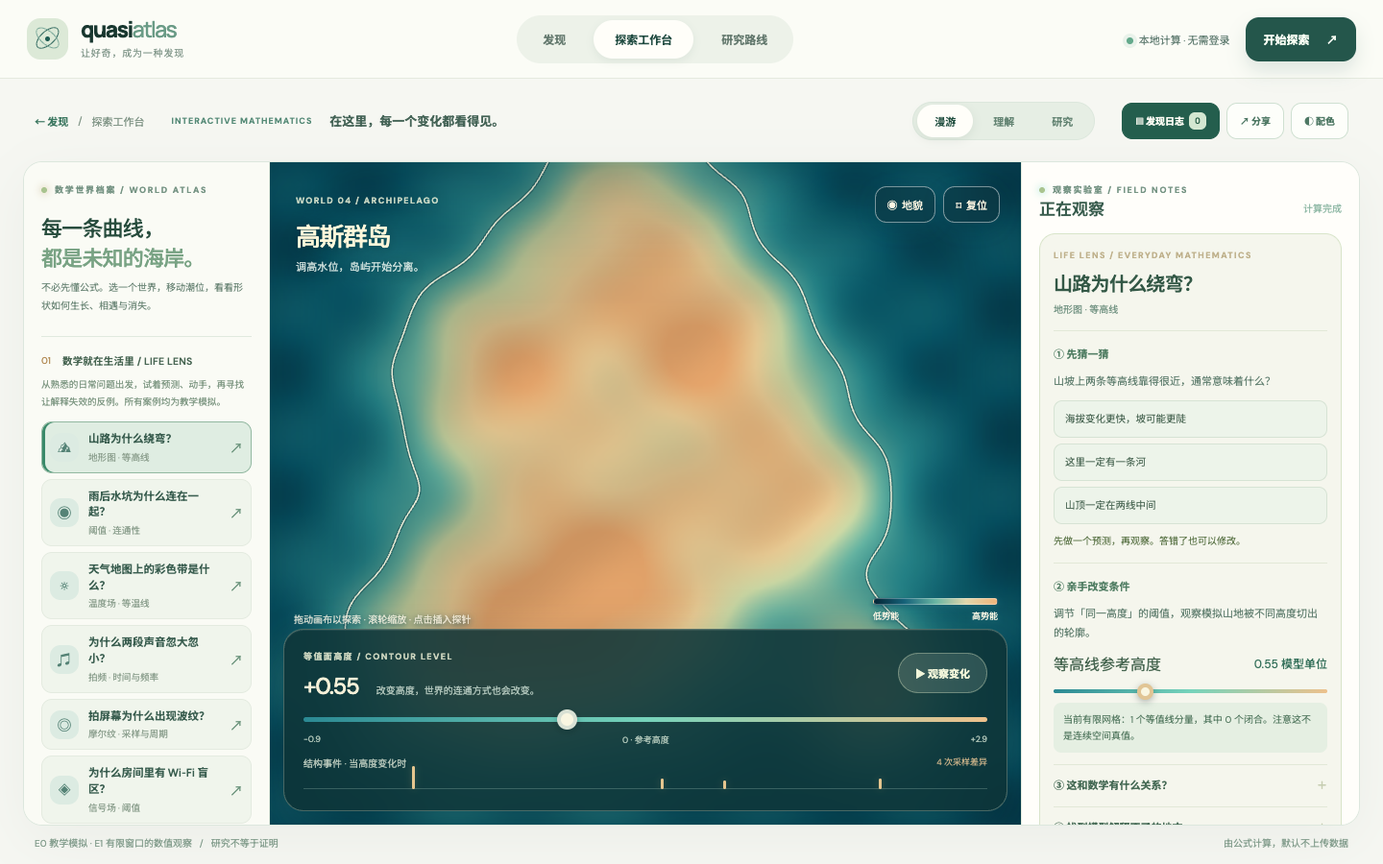
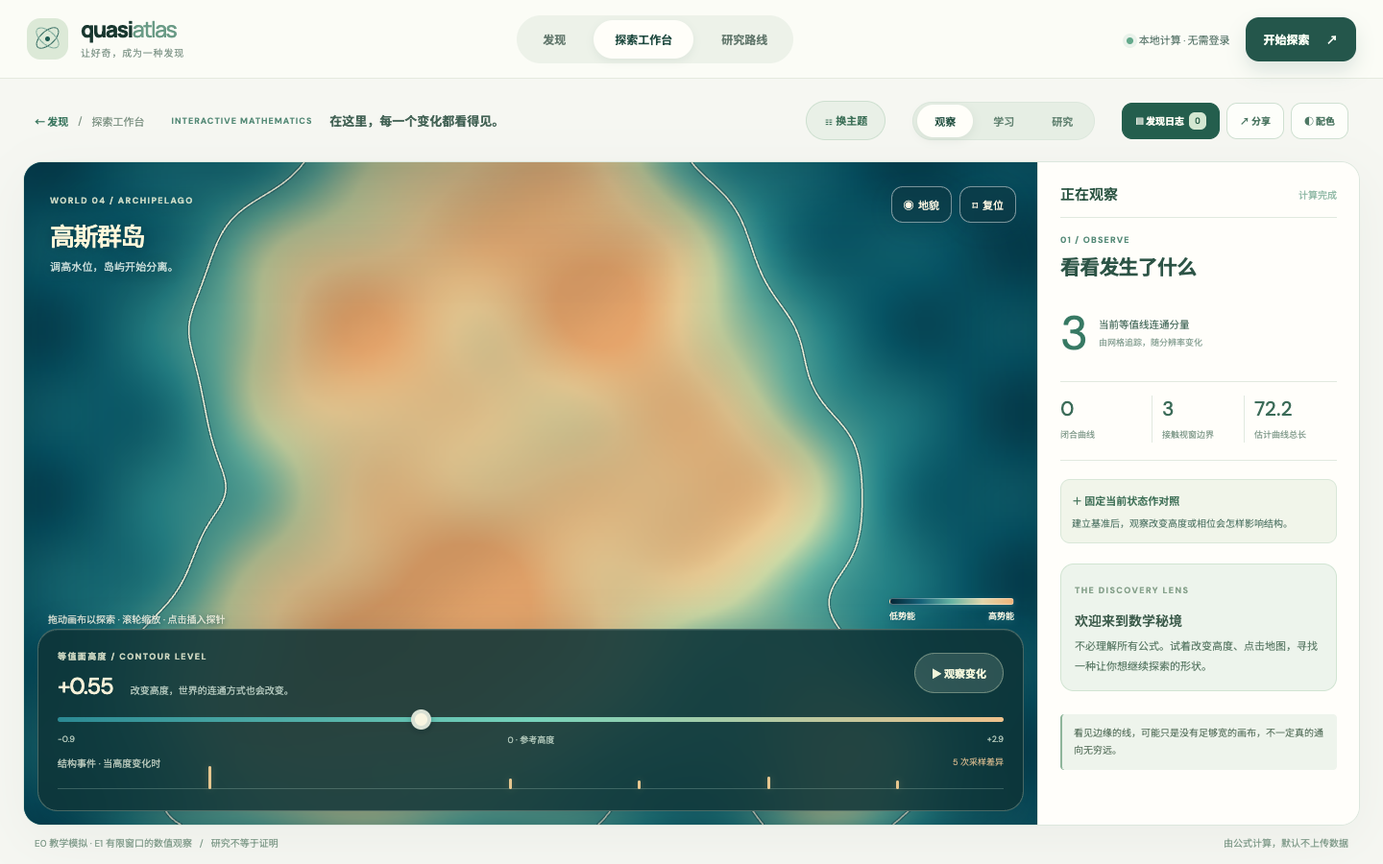
feat(studio): progressive inspector and world drawer; certify Windows G2 replay

diff --git a/src/studio-focus.css b/src/studio-focus.css
@@ -1,0 +1,89 @@
+/* Studio focus redesign: one math canvas, one contextual inspector, one optional world library. */
+.studio-page .layout{grid-template-columns:minmax(0,1fr) 335px!important;min-height:570px}
+.studio-page .right-panel{grid-column:2;min-width:0;background:#fffefa}
+.studio-page .workspace{grid-column:1;min-width:0}
+.studio-page .right-panel .rail-scroll{overflow-y:auto;overscroll-behavior:contain;padding:22px 23px}
+.focus-status{margin:0 0 14px!important;padding:0 0 13px!important;border-bottom:1px solid #e1e9df;display:flex;align-items:center;justify-content:space-between}
+.focus-status h2{font-size:15px!important;color:#2c5543!important;margin:0}
+.focus-pane{display:flex;flex-direction:column;gap:12px}
+.focus-pane[hidden]{display:none!important}
+.focus-pane-header{display:flex;flex-direction:column;gap:2px;padding:3px 0 8px}
+.focus-pane-header .section-kicker{font-size:9px;letter-spacing:1.2px}
+.focus-pane-header h3{color:#2d5446;font-size:21px;letter-spacing:-.8px;margin:4px 0 0}
+.studio-page #focusObserve .big-stat{border:0;margin-top:5px;padding:5px 0 13px}
+.studio-page #focusObserve .stats-row{margin:0 0 7px}
+.studio-page #focusObserve .comparison{margin:0 0 9px}
+.studio-page #focusObserve .mode-insight{margin:0 0 6px}
+.studio-page #focusObserve .scientific-note{margin:6px 0}
+.studio-page #focusLearn .life-lab{margin:0;background:#f5f7ee;display:block}
+.studio-page #focusLearn .life-lab[hidden]{display:none!important}
+.focus-learn-intro{border:1px solid #dce8d5;background:linear-gradient(145deg,#f4f8ed,#e7f1e5);border-radius:17px;padding:35px 24px;color:#436c53;display:flex;flex-direction:column;gap:14px;text-align:center;align-items:center}
+.focus-learn-intro[hidden]{display:none!important}
+.focus-learn-intro>span{font-size:42px;color:#87ab92}.focus-learn-intro strong{font-size:18px;line-height:1.5;color:#315b45}
+.focus-learn-intro p{font-size:11px;line-height:1.8;color:#728e77}.focus-learn-intro button{border:0;background:#27664e;color:white;padding:12px 18px;border-radius:10px;font-weight:700;font-size:12px}
+.studio-page #focusResearch .discovery-card{margin:0 0 10px}
+.focus-more{border:1px solid #d7e5d6;background:#f7faf3;border-radius:13px;padding:0 13px;overflow:visible}
+.focus-more>summary{cursor:pointer;list-style:none;color:#315d4c;font-size:12px;font-weight:750;padding:16px 5px;display:flex;justify-content:space-between}
+.focus-more>summary::-webkit-details-marker{display:none}
+.focus-more>summary:after{content:'＋';font-size:15px;color:#7d9a82}
+.focus-more[open]>summary:after{content:'−'}
+.focus-more[open]>summary{border-bottom:1px solid #dfebdc;margin-bottom:15px}
+.focus-more .param{margin:12px 0}.focus-more .button-grid{padding:0 0 17px}
+.studio-page #focusResearch .formula{margin-top:6px}
+.studio-page #focusResearch .footer-note{font-size:10px;line-height:1.6}
+.studio-page #focusResearch .scientific-note{display:block}
+.studio-page .studio-bar .choose-world{margin-left:auto;white-space:nowrap;border-radius:24px;padding:11px 18px;background:#e9f0e7;color:#3f725a;font-size:11px;border:1px solid #cddfcf}
+.studio-page .studio-bar .choose-world:hover{background:#dcebdc}
+.studio-page .studio-bar .mode-switch{flex-shrink:0}
+.studio-page .studio-headline{margin-right:0}
+.world-drawer{position:fixed;inset:0 auto 0 0;width:min(375px,calc(100vw - 23px));max-width:none;max-height:100dvh;height:100dvh;display:none;border:0;border-radius:0 22px 22px 0;margin:0;padding:0;background:#fbfcf6;box-shadow:15px 0 70px rgba(15,56,44,.23);color:#315d4d}
+.world-drawer[open]{display:flex;flex-direction:column}
+.world-drawer::backdrop{background:rgba(10,35,31,.53);backdrop-filter:blur(4px)}
+.world-drawer-head{display:flex;justify-content:space-between;padding:26px 23px 20px;border-bottom:1px solid #e0e9db;gap:15px}
+.world-drawer-head h2{font-size:24px;letter-spacing:-.8px;margin:8px 0 7px}
+.world-drawer-head p{font-size:11px;color:#819582;line-height:1.7;margin:0}
+.world-drawer-close{flex-shrink:0;width:35px;height:35px;border:1px solid #cadcca;border-radius:50%;background:#f2f6ee;color:#517e63;font-size:21px}
+.world-drawer>.left-panel{position:relative!important;width:100%!important;flex:1;min-height:0;display:block!important;border:0!important;box-shadow:none!important;overflow:auto!important}
+.world-drawer>.left-panel .rail-scroll{height:auto!important;max-height:none!important;padding:21px 21px 38px!important;overflow:visible!important}
+.world-drawer>.left-panel h1{font-size:20px!important}
+.world-drawer>.left-panel .intro{font-size:11px}
+.world-drawer>.left-panel .life-lessons{grid-template-columns:1fr 1fr}
+.world-drawer>.left-panel .section-heading{padding:14px 0 9px}
+.world-drawer>.left-panel .rail-foot{margin-bottom:12px}
+body[data-page=studio] .site-foot{display:none}
+@media(max-width:1200px){
+ .studio-page .layout{grid-template-columns:minmax(0,1fr) 315px!important}
+ .studio-page .studio-bar{gap:10px}.studio-page .studio-headline strong{display:none}
+}
+@media(max-width:1020px){
+ .studio-page .layout{display:flex!important;flex-direction:column!important;height:auto!important;min-height:0!important}
+ .studio-page .workspace{width:100%;height:560px;min-height:560px;order:0}
+ .studio-page .right-panel{width:100%;order:1;min-height:0}
+ .studio-page .right-panel .rail-scroll{overflow:visible!important;max-height:none;padding:20px 22px}
+ .studio-page .studio-bar .choose-world{margin-left:auto}
+ .studio-page .studio-bar .mode-switch{display:flex}
+ .studio-page .studio-bar .studio-tools{display:flex!important}
+ .world-drawer>.left-panel .rail-scroll{overflow:visible!important}
+}
+@media(max-width:700px){
+ .studio-page .studio-bar{height:53px;gap:5px;padding:0 0 7px}
+ .studio-page .studio-bar .choose-world{font-size:10px;padding:9px 9px;margin-left:0}
+ .studio-page .studio-bar .mode-switch{padding:2px;gap:0}
+ .studio-page .studio-bar .mode{font-size:10px;padding:8px 10px}
+ .studio-page .studio-tools{margin-left:auto!important}
+ .studio-page .studio-tool.notebook-open{font-size:0!important;padding:8px 9px!important;white-space:nowrap}
+ .studio-page .studio-tool.notebook-open:before{content:'▤ 笔记';font-size:10px}
+ .studio-page .studio-tool.notebook-open span{font-size:9px!important}
+ .studio-page .workspace{height:510px;min-height:510px}
+ .studio-page .right-panel .rail-scroll{padding:20px 17px}
+ .focus-pane-header h3{font-size:22px}
+ .world-drawer{width:min(355px,96vw)}
+ .world-drawer-head{padding:21px 19px 16px}
+ .world-drawer>.left-panel .rail-scroll{padding:18px 17px 35px!important}
+}
+/* Override the former full-width 3-column mode switch on narrow screens. */
+.studio-page .studio-bar .mode-switch{width:auto!important;min-width:0!important;max-width:none!important;flex:0 0 auto!important}
+.studio-page .studio-bar .mode{min-width:0!important;width:auto!important;flex:0 0 auto!important}
+@media(max-width:700px){.studio-page .studio-bar .mode-switch{flex:0 1 auto!important}.studio-page .studio-bar .mode{padding:8px 9px!important}.studio-page .studio-bar .choose-world{flex:0 0 auto!important}}
+/* Earlier Notebook media rule hides every .studio-tool except the Notebook; restore the world picker. */
+.studio-page .studio-bar .choose-world{display:inline-flex!important;align-items:center;justify-content:center}

diff --git a/src/studio-focus.js b/src/studio-focus.js
@@ -1,0 +1,72 @@
+// Studio IA v3: a scene-first workspace with progressive disclosure.
+// Reparents existing working DOM controls rather than duplicating event listeners.
+// Each original ID is preserved for mathematical, G1 learning and G2 Notebook contracts.
+export function setupStudioFocus(){
+ const $=s=>document.querySelector(s),right=$('.studio-page .right-panel .rail-scroll'),left=$('.studio-page .left-panel');
+ const layout=$('.studio-page .layout'),bar=$('.studio-bar');
+ if(!right||!left||!layout||!bar)throw new Error('STUDIO_STRUCTURE_MISSING');
+ const pane=(id,label,subtext)=>{const el=document.createElement('section');el.className='focus-pane';el.id=id;el.setAttribute('aria-label',label);
+  const heading=document.createElement('header');heading.className='focus-pane-header';
+  const tag=document.createElement('span');tag.className='section-kicker';tag.textContent=subtext;
+  const title=document.createElement('h3');title.textContent=label;heading.append(tag,title);el.append(heading);return el;};
+ const observe=pane('focusObserve','看看发生了什么','01 / OBSERVE');
+ const learn=pane('focusLearn','自己动手理解','02 / LEARN');
+ const research=pane('focusResearch','检验一个发现','03 / RESEARCH · E1');
+ const header=right.querySelector('.section-overline');header?.remove();
+ const persistent=right.querySelector('.right-title');persistent?.classList.add('focus-status');
+ const life=right.querySelector('#lifeLab');
+ const fallback=document.createElement('div');fallback.className='focus-learn-intro';fallback.id='focusLearnIntro';
+ fallback.innerHTML='<span aria-hidden="true">✳</span><strong>从一个熟悉的生活问题开始</strong><p>选择主题，然后试着预测、改变条件、寻找反例。</p><button type="button" id="focusChooseLesson">选择生活数学主题 ↗</button>';
+ learn.append(fallback,life);
+ for(const selector of ['.big-stat','.stats-row','.comparison','.mode-insight','.scientific-note']){
+  const item=right.querySelector(selector);if(item)observe.append(item);
+ }
+ const discovery=right.querySelector('.discovery-card');if(discovery)research.append(discovery);
+ const collapsible=(title,selectors,open=false)=>{
+  const details=document.createElement('details');details.className='focus-more';details.open=open;
+  const summary=document.createElement('summary');summary.textContent=title;details.append(summary);
+  for(const selector of selectors){for(const item of [...right.querySelectorAll(selector)])details.append(item);}
+  return details;
+ };
+ research.append(collapsible('调整模型 / 相位 / 网格精度',['.param'],false));
+ research.append(collapsible('保存曲线与数学数据',['.button-grid'],false));
+ const formula=right.querySelector('.formula');if(formula)research.append(formula);
+ const footer=right.querySelector('.footer-note');if(footer)research.append(footer);
+ [...right.querySelectorAll('.section-heading')].forEach(x=>x.remove());
+ right.append(observe,learn,research);
+ // The existing lesson is hidden until one is chosen; keep teaching text in one dedicated pane.
+ function syncLesson(){fallback.hidden=!life.hidden;}
+ const drawer=document.createElement('dialog');drawer.className='world-drawer';drawer.id='worldDrawer';drawer.setAttribute('aria-labelledby','worldDrawerHeading');
+ drawer.innerHTML='<div class="world-drawer-head"><div><span class="section-kicker">YOUR MATHEMATICAL WORLDS</span><h2 id="worldDrawerHeading">探索哪些世界？</h2><p>从生活切入，或者自由选择数学场景。</p></div><button type="button" class="world-drawer-close" id="closeWorldDrawer" aria-label="关闭选择主题">×</button></div>';
+ drawer.append(left);layout.after(drawer);
+ const open=()=>{drawer.showModal();$('#closeWorldDrawer').focus();};
+ const close=()=>{if(drawer.open)drawer.close();};
+ $('#closeWorldDrawer').addEventListener('click',close);
+ drawer.addEventListener('click',e=>{if(e.target===drawer)close();});
+ $('#focusChooseLesson').addEventListener('click',open);
+ // Existing click handlers still run on moved elements; this layer only changes navigation affordances.
+ drawer.addEventListener('click',e=>{
+  if(e.target.closest('.life-tile')){close();$('.mode[data-mode="learn"]')?.click();syncLesson();}
+  else if(e.target.closest('.preset')){close();$('.mode[data-mode="wander"]')?.click();}
+  else if(e.target.closest('#tryChallenge')){close();$('.mode[data-mode="wander"]')?.click();}
+ });
+ const choose=document.createElement('button');choose.type='button';choose.className='studio-tool choose-world';choose.id='openWorldDrawer';
+ choose.textContent='☷ 换主题';choose.setAttribute('aria-haspopup','dialog');choose.setAttribute('aria-controls','worldDrawer');
+ bar.insertBefore(choose,bar.querySelector('.mode-switch'));
+ choose.addEventListener('click',open);
+ const modes={wander:observe,learn,research};
+ const buttons=[...document.querySelectorAll('.studio-bar .mode[data-mode]')];
+ const titles={wander:'观察',learn:'学习',research:'研究'};
+ buttons.forEach(b=>{b.textContent=titles[b.dataset.mode]||b.textContent;
+  b.addEventListener('click',()=>setPane(b.dataset.mode));
+ });
+ function setPane(mode){
+  const target=modes[mode]||observe;
+  for(const element of Object.values(modes))element.hidden=element!==target;
+  right.scrollTop=0;syncLesson();
+  bar.dataset.focusMode=mode;document.body.dataset.focusMode=mode;
+  const aria=target.querySelector('h3');if(aria)right.setAttribute('aria-label',aria.textContent);
+ }
+ setPane($('.studio-bar .mode.active')?.dataset.mode||'wander');
+ return {setPane,openWorldDrawer:open,closeWorldDrawer:close,syncLesson};
+}

diff --git a/src/shell.js b/src/shell.js
@@ -3,7 +3,7 @@ import {LIFE_LESSONS} from './life-content.js';
 const MILESTONES=[
  {id:'G0',state:'done',badge:'基础已实现',title:'可信的数学地基',summary:'定义模型，保留数值边界，让每次计算有来源。',details:['12 组解析几何基准与数学测试','有限域模型、参数单位与 SHA-256 实验哈希','E0 教学 / E1 数值观察的明确区分'],foot:'完成的是工程基础，不代表数学证明。'},
  {id:'G1',state:'progress',badge:'体验版已上线 · 待教学实测',title:'从生活走进数学',summary:'从熟悉场景出发，先猜，再操作，最后理解模型的局限。',details:['6 个完整的生活互动入口','预测、解释、找反例、学习 JSON','仍需真实数据溯源、教师审核和用户理解评估'],foot:'当前全部生活素材采用合成教学模型。'},
- {id:'G2',state:'progress',badge:'G2 Beta · 跨设备验收中',title:'发现日志与复现实验',summary:'保存问题、预测与结果，比较快照，在本机重新计算并导出完整实验包。',details:['Notebook 1.0、不可变快照与 stale 提醒','参数、E1 观测及来源哈希，JSON/CSV/SVG 和文件导入','同一版本的 headless CLI / 工作线程复算与差异分类'],foot:'当前支持经审核的二维标量场；独立设备对照与跨引擎/跨版本迁移仍需独立验收。'},
+ {id:'G2',state:'progress',badge:'G2 Beta · 三平台复算通过',title:'发现日志与复现实验',summary:'保存问题、预测与结果，比较快照，在本机重新计算并导出完整实验包。',details:['Notebook 1.0、不可变快照与 stale 提醒','参数、E1 观测及来源哈希，JSON/CSV/SVG 和文件导入','同一版本的 headless CLI / 工作线程复算与差异分类'],foot:'Mac / Windows / Linux 同引擎固定样例复算通过；独立数学算法对照、跨引擎版本迁移尚未通过科研验收。'},
  {id:'G3',state:'planned',badge:'规划中',title:'深入拓扑结构',summary:'真正研究连通性、洞、分支事件，不只是在屏幕上追线。',details:['H0/H1、持久图及连通结构','临界事件身份追踪、退化与边界处理','用 TTK / GUDHI 做独立算法对照'],foot:'当前候选事件是启发式计算，非持久同调结果。'},
  {id:'G4',state:'planned',badge:'规划中',title:'可认证的数值实验',summary:'限定函数类别，严格区分已认证、无法判断与不满足条件。',details:['区间运算与数值误差包络','驻点存在/唯一/排除的机器可审证书','UNKNOWN / TIMEOUT 不准被误报为通过'],foot:'没有 E3 认证或 E4 数学证明能力。'},
  {id:'G5',state:'planned',badge:'规划中',title:'准周期研究专题',summary:'在具体数学假设下研究长程等值线与参数变化。',details:['准周期场频率矩阵与相位控制','论文复现与窗口扩张实验','参数扫描与版本化研究数据'],foot:'有限窗口边界穿越不证明无限域轨迹。'},
@@ -62,7 +62,7 @@ export function setupAppShell({initialSearch,life,activateResearch,showExperimen
     if(next==='studio'){requestAnimationFrame(()=>{window.dispatchEvent(new Event('resize'));});}
   }
   $$('[data-screen]').forEach(b=>b.addEventListener('click',()=>navigate(b.dataset.screen)));
-  $$('[data-launch]').forEach(b=>b.addEventListener('click',()=>{navigate('studio');life.show(b.dataset.launch);}));
+  $$('[data-launch]').forEach(b=>b.addEventListener('click',()=>{navigate('studio');life.show(b.dataset.launch);document.querySelector('.mode[data-mode="learn"]')?.click();}));
   $$('[data-launch-mode]').forEach(b=>b.addEventListener('click',()=>{
     const mode=b.dataset.launchMode;
     navigate('studio');

diff --git a/src/main.js b/src/main.js
@@ -1,6 +1,8 @@
 import './style.css';
 import './ui-v2.css';
 import './notebook.css';
+import './studio-focus.css';
+import {setupStudioFocus} from './studio-focus.js';
 import {setupAppShell} from './shell.js';
 import {PRESETS,getPreset,evaluateField} from './math/fields.js';
 import {createModel,createExperiment} from './math/contract.js';
@@ -302,3 +304,5 @@ window.__notebook=setupNotebook({
  },
  download:downloadBlob,showMessage:toast
 });
+
+window.__studioFocus=setupStudioFocus();

diff --git a/docs/G2_CROSS_RUNTIME_QUALIFICATION.md b/docs/G2_CROSS_RUNTIME_QUALIFICATION.md
@@ -1,6 +1,6 @@
 # G2 · Cross-runtime Replay Qualification
 
-Version 0.5.0-beta.2 · 2026-10-24. **This document separates demonstrated engineering compatibility from still-unverified physical Windows acceptance.**
+Version 0.5.0-beta.2 · 2026-10-24. **This document records successful Mac–Windows–Linux engineering replay; independently implemented mathematical verification remains outstanding.**
 
 ## What is new
 
@@ -57,7 +57,7 @@ The script returns MATCH only for two distinct platform/architecture labels with
 
 ## Mac and Vercel Linux
 
-Vercel builds the GitHub commit on Linux, runs the scientific gate (at least 67 tests) and repeats the **identical** fixtures/g2/replay-canary.json. Build logs include one concise G2_CANARY_RECEIPT record containing source/lock and the computed results. Compare this to the Mac receipt using scripts/compare-canary-receipts.mjs. This is two distinct execution environments but does not replace a Windows device acceptance.
+Vercel builds the GitHub commit on Linux, runs the scientific gate (at least 67 tests) and repeats the **identical** fixtures/g2/replay-canary.json. Build logs include one concise G2_CANARY_RECEIPT record containing source/lock and the computed results. Compare this to the Mac receipt using scripts/compare-canary-receipts.mjs. This is one cross-runtime pairing; Windows was separately tested through Computer MCP as documented below.
 
 ## Verified cross-runtime result — 2026-10-24
 
@@ -72,7 +72,7 @@ Vercel builds the GitHub commit on Linux, runs the scientific gate (at least 67 
 - Vercel build: `SCIENTIFIC_GATE_PASS 67/67 across 7 files`, plus the same pinned three-case canary.
 - Production browser: Notebook 1.1 export has matching math and lockfile fingerprints, Worker MATCH, zero JavaScript errors; HTTPS custom domain verified.
 
-**Remaining G2 physical-device gate:** An authorized Windows computer is not currently online in OWL LAB or Remote Desktop Commander, so a Windows receipt has NOT been produced. These two environments establish platform-to-platform numerical reproducibility, **not** external mathematical certification, cryptographically attested computer identity, or a Windows test.
+**Windows physical-device gate: PASS** (2026-10-24). A live Windows 10 x64 machine connected through Computer MCP replayed the identical three-case fixture with Node 24. The actual Windows receipt was compared against both the Mac and Vercel Linux receipts; all three topology counts and all three contour lengths matched exactly (length deltas 0). The initial Windows clone caused a deliberate SHA mismatch because global Git core.autocrlf converted source bytes to CRLF; preserving LF during checkout fixed this. Repository .gitattributes now pins audited text checkout to LF. Full procedure and evidence: [G2_WINDOWS_ACCEPTANCE.md](G2_WINDOWS_ACCEPTANCE.md). The three observed environments establish same-engine platform reproducibility, **not** independent mathematical certification, cryptographically attested computer identity, or a proof.
 
 ## Failure codes
 
@@ -85,7 +85,7 @@ Vercel builds the GitHub commit on Linux, runs the scientific gate (at least 67 
 
 ## Evidence status and remaining limitations
 
-Mac local results and Vercel Linux results are measured separately. They must be compared using the same pinned fixture before reporting G2 cross-runtime engineering qualification. The user's Windows device is **not currently connected to OWL LAB**; no Windows test can be claimed until that device is online and authorized.
+Mac, Windows via Computer MCP, and Vercel Linux results were independently computed and compared using the same pinned fixture on 2026-10-24; all three cases MATCH with length delta 0. Reproduction results are engineering observations only, not numerical certification.
 
 The test receipts do not establish code signing, external numerical oracle equivalence, independent GUDHI/TTK verification, exact GPU/CPU visual identity, formal numerical certification or mathematical proof. Higher evidence tiers remain planned for G3/G4.
 

diff --git a/docs/STUDIO_FOCUS_INFORMATION_ARCHITECTURE.md b/docs/STUDIO_FOCUS_INFORMATION_ARCHITECTURE.md
@@ -1,0 +1,35 @@
+# Quasi Atlas — Studio Focus UI / Information Architecture (2026-10-24)
+
+## Why the previous workspace was difficult
+
+Previously, the left column simultaneously contained six Life Lens lessons, multiple preset worlds and a challenge. The right column simultaneously showed experimental data, hypotheses, numerical research actions, phase/scale/resolution controls, multiple export formats, formulas and explanations. Users were forced to parse three competing columns before taking a first action.
+
+## New structure, fully implemented
+
+Desktop: **one immersive mathematical canvas + one contextual inspector**. The third persistent column was removed. A compact "☷ 换主题" button opens a native modal dialog listing the six Life Lens lessons, preset fields and challenges; the drawer closes after selection or Escape.
+
+Top of workspace: three explicit modes (original state.mode remains unchanged):
+- **观察** (wander): live contour total, components, boundary and curve length, before/after baseline, brief epistemic caveat
+- **学习** (learn): only the selected Life Lens lesson, with predict / adjust / explanation / counterexample / recording steps. Without a selected lesson, one invitation button opens the world drawer
+- **研究** (research): candidate critical points and multi-grid verification. Detailed scale/phase/resolution changes and PNG/JSON/SVG exports live behind separate expandable sections. Formula and model limitations remain available
+
+Notebook is a distinct and prominent G2 dialog reached with "▤ 发现日志", not nested within the inspector. All existing control IDs and math engine bindings are preserved, including the one-dimensional beat display, world pin, sliders, original G0 export schema, G1 learning JSON, and G2 pinned Notebook 1.1.
+
+Mobile 390px: canvas first, inspector second; theme selection through modal drawer instead of squeezed columns. The browser audit validates no horizontal overflow, topic switching, inspector mode selection, Escape behavior and research-details disclosure.
+
+No user accounts, cloud data upload or artificial scientific certification introduced. The interface does not remove research functions; it changes their discovery order.
+
+## Navigation
+
+Home topic card -> Studio and Learning tab automatically; choose a different lesson from drawer -> Learning tab; choose pure mathematical preset -> Observe tab; enter research from a lesson -> Research tab. Desktop and mobile share identical mode semantics and core controls.
+
+## QA
+
+- scripts/studio-focus-smoke.mjs: desktop, keyboard drawer, tabs, disclosures, mobile responsiveness, JavaScript error guard
+- scripts/life-smoke.mjs: six teaching lessons, including 1D beats and JSON export
+- scripts/smoke.mjs: G0 candidate critical points, grid checks, E1 export; opens research disclosure before export
+- scripts/g2-smoke.mjs: immutable Notebook, replay, tamper rejection, persistence and migration
+- scripts/ui-smoke.mjs: home, roadmap, studio, mobile overflow
+- npm run gate: 67/67 math/contract/replay tests with pinned fixed canary
+
+Remaining independent mathematical algorithm verification is a separate G3 scientific obligation, not represented by this UI redesign.

diff --git a/docs/G2_WINDOWS_ACCEPTANCE.md b/docs/G2_WINDOWS_ACCEPTANCE.md
@@ -1,0 +1,40 @@
+# G2 Windows Physical Reproduction — Acceptance (2026-10-24)
+
+## Verified result
+
+PASS — the connected Computer MCP Windows 10 x64 (10.0.19045), Node.js 24.21.0, Git 2.56.0.windows.2 checked out private Quasi Atlas commit 6d90d9d4af8f311498d8fc842b4e24fc013e1b06.
+
+The headless CLI and the checked-in three-case fixture fixtures/g2/replay-canary.json returned MATCH on Windows. Genuine runtime receipts compared using the repository comparator yielded:
+- Mac darwin-arm64 ↔ Windows win32-x64: MATCH
+- Vercel Linux-x64 ↔ Windows win32-x64: MATCH
+
+All three finite-grid experiments agree for component/closed/boundary counts and approximate contour length (length differences [0,0,0]).
+- Notebook SHA256: sha256:e17ca4fd35323c8b0ea42b25db261f1f8023a068d0bf3da6d81aae4dfd584c49
+- Math-source SHA256: sha256:3393c7753462b46ba042704f88e0a67d8c45eabd53b34f1070dcf60f42bc0
+- npm lockfile SHA256: sha256:66fd2f12727bb16df9cc30aa22c28618313e44826fdba397c49637c8c751b1a4
+- Samples: archipelago (3 components, length 57.938295309947094), saddle (2, length 55.788478281279836), quasi (72, length 488.2283968173891).
+
+This is cross-OS intra-engine reproducibility, not a separately implemented numerical solver, numerical certification or mathematical proof.
+
+## Diagnosed a real Windows-specific problem
+
+Initial Windows clone had Git core.autocrlf=true, transforming audited JavaScript and package-lock.json bytes into CRLF. Strict provenance verification correctly failed with MATH_SOURCE_MISMATCH. Cloning with git -c core.autocrlf=false preserved LF and passed.
+
+The repo now enforces .gitattributes text eol=lf for audited JS/MJS/JSON/CSS/HTML, and eol=crlf for Windows-specific scripts. This protects ordinary future clones independently of global core.autocrlf settings.
+
+## Reproduction procedure (PowerShell)
+
+Prerequisite: authorized GitHub access and Node 22+.
+
+    cd C:\Users\i95i\mcp-workspace
+    git clone https://github.com/tubban1/quasi-atlas.git quasi-atlas-g2-qa
+    cd quasi-atlas-g2-qa
+    npm ci
+    node scripts/canary-receipt.mjs fixtures/g2/replay-canary.json --out windows-receipt.json
+    node scripts/replay-notebook.mjs fixtures/g2/replay-canary.json --receipt windows-full-report.json
+
+Compare Windows receipt against one captured on Mac with scripts/compare-canary-receipts.mjs.
+
+## Remaining research scope
+
+G2 cross-operating-system same-engine fixed-experiment gate is PASS. Independent numerical algorithms, G3 topology, interval/error-bounded G4 certification, and formal proofs remain separate, unimplemented research targets. No personal user notebooks or credentials were uploaded for this qualification.

diff --git a/docs/ROADMAP_INDEX.md b/docs/ROADMAP_INDEX.md
@@ -1,8 +1,8 @@
 # Quasi Atlas · 研究级规划文档入口
 
-**制定日期：2026-10-23 | 原基线 0.2；截至 2026-10-24，G0/G1 工程已实施，G2 Notebook Beta 的 Mac↔Linux 同引擎固定样例复现已通过，Windows 实机/独立算法、教育实证及真实开放数据仍待验收。**
+**制定日期：2026-10-23 | 原基线 0.2；截至 2026-10-24，G0/G1 工程已实施，G2 Notebook Beta 的 Mac↔Linux 同引擎固定样例复现已通过，Windows 真实设备也完成了同引擎固定样例验收；独立算法、教育实证及真实开放数据仍待验收。**
 
-G2 当前实施、复算协议与限制见 [G2_NOTEBOOK_REPLAY.md](G2_NOTEBOOK_REPLAY.md)，跨环境验证命令与证据要求见 [G2_CROSS_RUNTIME_QUALIFICATION.md](G2_CROSS_RUNTIME_QUALIFICATION.md)。全新 UI 信息架构见 [UI_2_INFORMATION_ARCHITECTURE.md](UI_2_INFORMATION_ARCHITECTURE.md)，生产研发流程见 [G1_CICD_RUNBOOK.md](G1_CICD_RUNBOOK.md)，实际 G1 验收与 GitHub Actions 账单阻塞见 [G1_DELIVERY_REPORT.md](G1_DELIVERY_REPORT.md)。
+G2 当前实施、复算协议与限制见 [G2_NOTEBOOK_REPLAY.md](G2_NOTEBOOK_REPLAY.md)，跨环境验证命令与证据要求见 [G2_CROSS_RUNTIME_QUALIFICATION.md](G2_CROSS_RUNTIME_QUALIFICATION.md)。工作台渐进式信息架构见 [STUDIO_FOCUS_INFORMATION_ARCHITECTURE.md](STUDIO_FOCUS_INFORMATION_ARCHITECTURE.md)，Windows 实机验收见 [G2_WINDOWS_ACCEPTANCE.md](G2_WINDOWS_ACCEPTANCE.md)。全新 UI 信息架构见 [UI_2_INFORMATION_ARCHITECTURE.md](UI_2_INFORMATION_ARCHITECTURE.md)，生产研发流程见 [G1_CICD_RUNBOOK.md](G1_CICD_RUNBOOK.md)，实际 G1 验收与 GitHub Actions 账单阻塞见 [G1_DELIVERY_REPORT.md](G1_DELIVERY_REPORT.md)。
 
 > 一句话：从看见生活中的数学，到亲自提出可证伪猜想，再到可信赖、可复现的科学实验。产品允许人人进入；研究级结论必须遵守严格限定。
 
@@ -17,7 +17,7 @@ G2 当前实施、复算协议与限制见 [G2_NOTEBOOK_REPLAY.md](G2_NOTEBOOK_R
 ## 总路线图 / 发布门禁
 
 ~~~text
-当前 v0.5.0-beta.2：G0/G1 已实施，G2 Notebook 工程 Beta（跨机器验证待完成）
+当前 v0.5.0-beta.2：G0/G1 已实施，G2 Notebook 工程 Beta（Mac、Windows、Linux 固定样例复算通过；独立数学算法待验证）
      |
 G0 科学地基 ── 定义、12 golden fixtures、可靠数据/证据 schema
      |

diff --git a/README.md b/README.md
@@ -1,6 +1,6 @@
 # Quasi Atlas · 数学秘境 (G2 Discovery Notebook beta)
 
-**v0.5.0-beta.2 · G2 已实现的体验**：从探索工作台点击「▤ 发现日志」，记录问题/预测/观察/反例/结论，保存不可变的 E1 快照，比较两次实验并使用相同数学引擎离线复算。支持 Notebook JSON/CSV 导出及安全导入、旧 G0 实验迁移。完整说明见 [G2 Notebook & Replay](docs/G2_NOTEBOOK_REPLAY.md)，[G2 跨运行环境验收](docs/G2_CROSS_RUNTIME_QUALIFICATION.md)列出固定实验包、Mac/Windows/Linux 使用方法和已通过的 Mac↔Vercel Linux 跨环境测试（3 个固定案例），以及仍未完成的 Windows 实机验收。
+**v0.5.0-beta.2 · G2 已实现的体验**：从探索工作台点击「▤ 发现日志」，记录问题/预测/观察/反例/结论，保存不可变的 E1 快照，比较两次实验并使用相同数学引擎离线复算。支持 Notebook JSON/CSV 导出及安全导入、旧 G0 实验迁移。完整说明见 [G2 Notebook & Replay](docs/G2_NOTEBOOK_REPLAY.md)，[G2 跨运行环境验收](docs/G2_CROSS_RUNTIME_QUALIFICATION.md)列出固定实验包、Mac/Windows/Linux 使用方法和已通过的 Mac↔Vercel Linux 跨环境测试（3 个固定案例），以及通过 Computer MCP 完成的 Windows 真实设备验收。最新工作台采用单主画布和上下文观察/学习/研究面板，见 [工作台信息架构](docs/STUDIO_FOCUS_INFORMATION_ARCHITECTURE.md)。
 
 **0.4.0 全新产品界面**：发现首页（六个生活数学场景）→ 集中式数学探索工作台 → G0–G6 研究路线。保留现有实际计算和 E0/E1 科学分级。见 [UI 2.0 信息架构](docs/UI_2_INFORMATION_ARCHITECTURE.md)。
 
